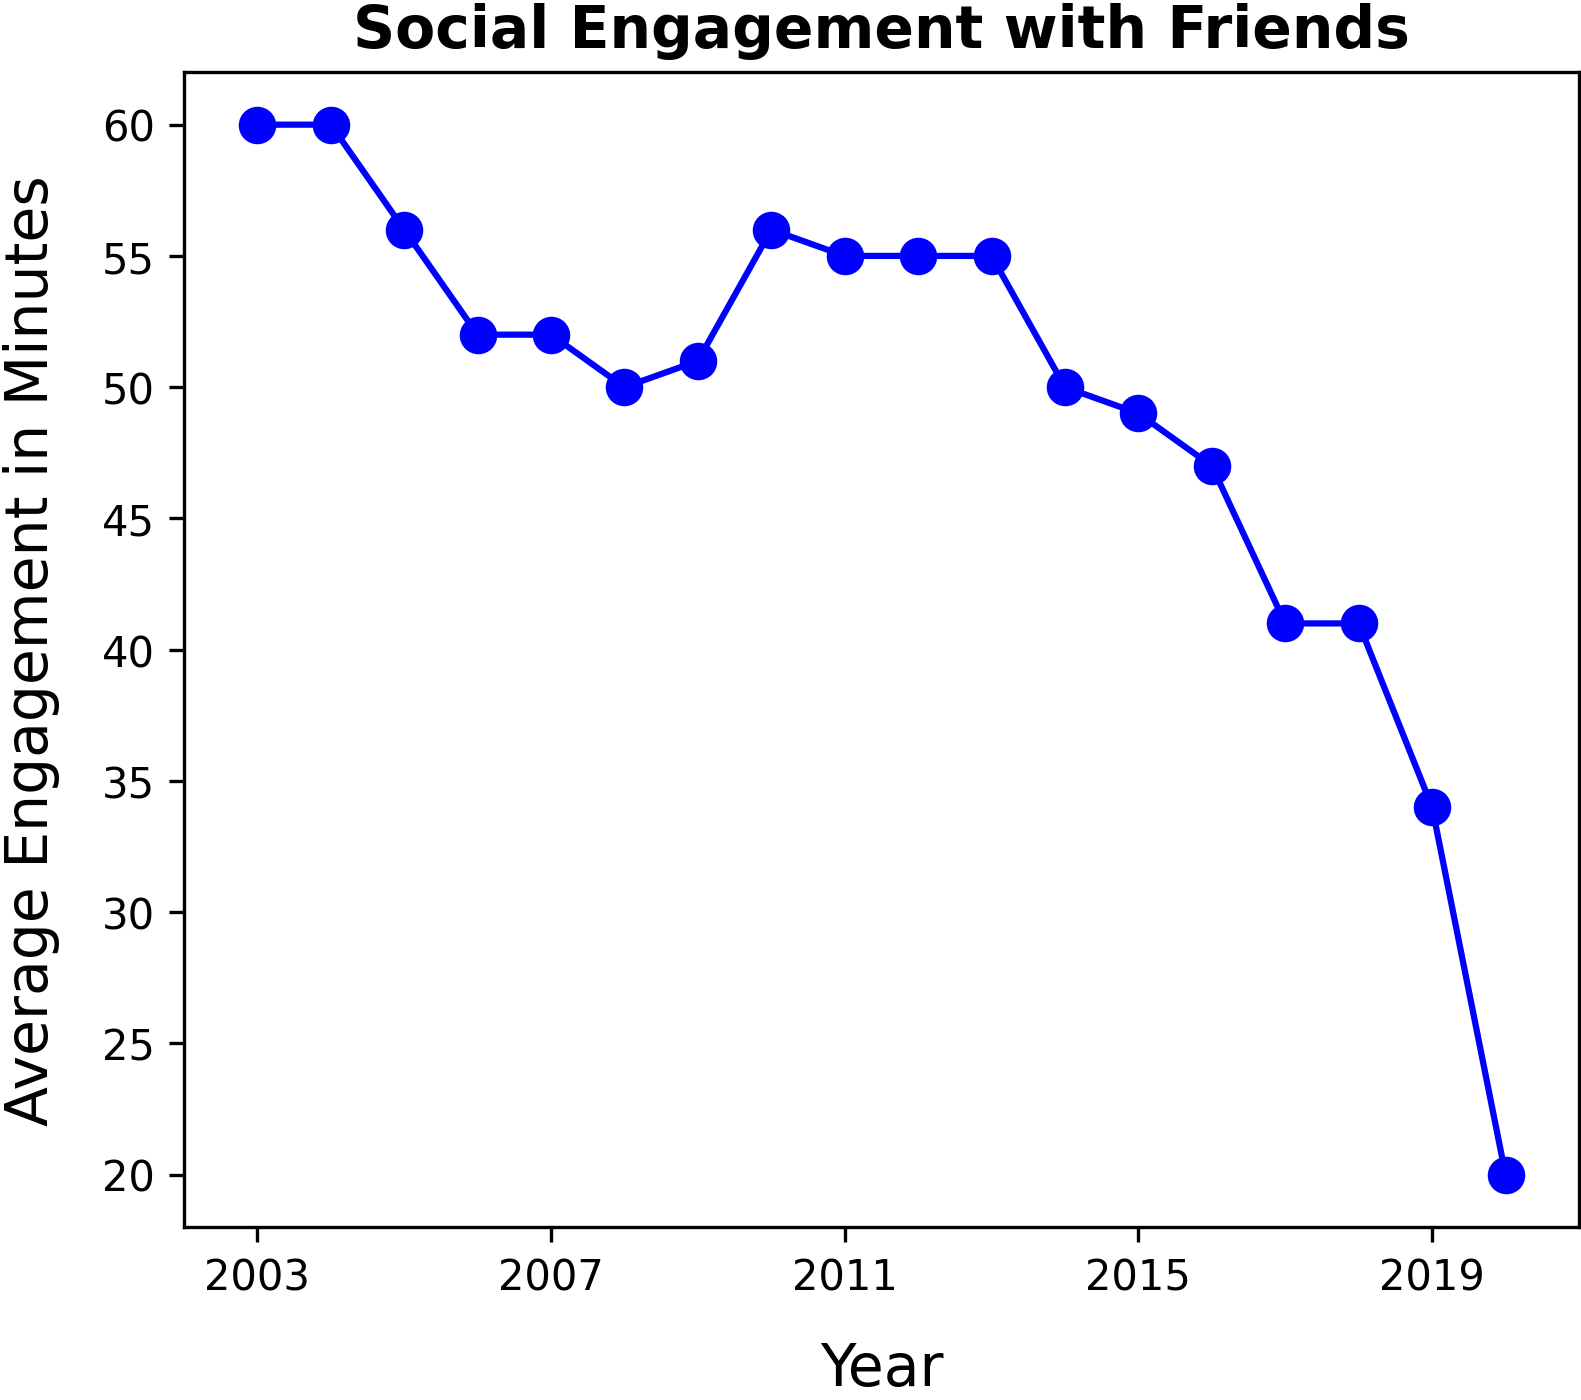
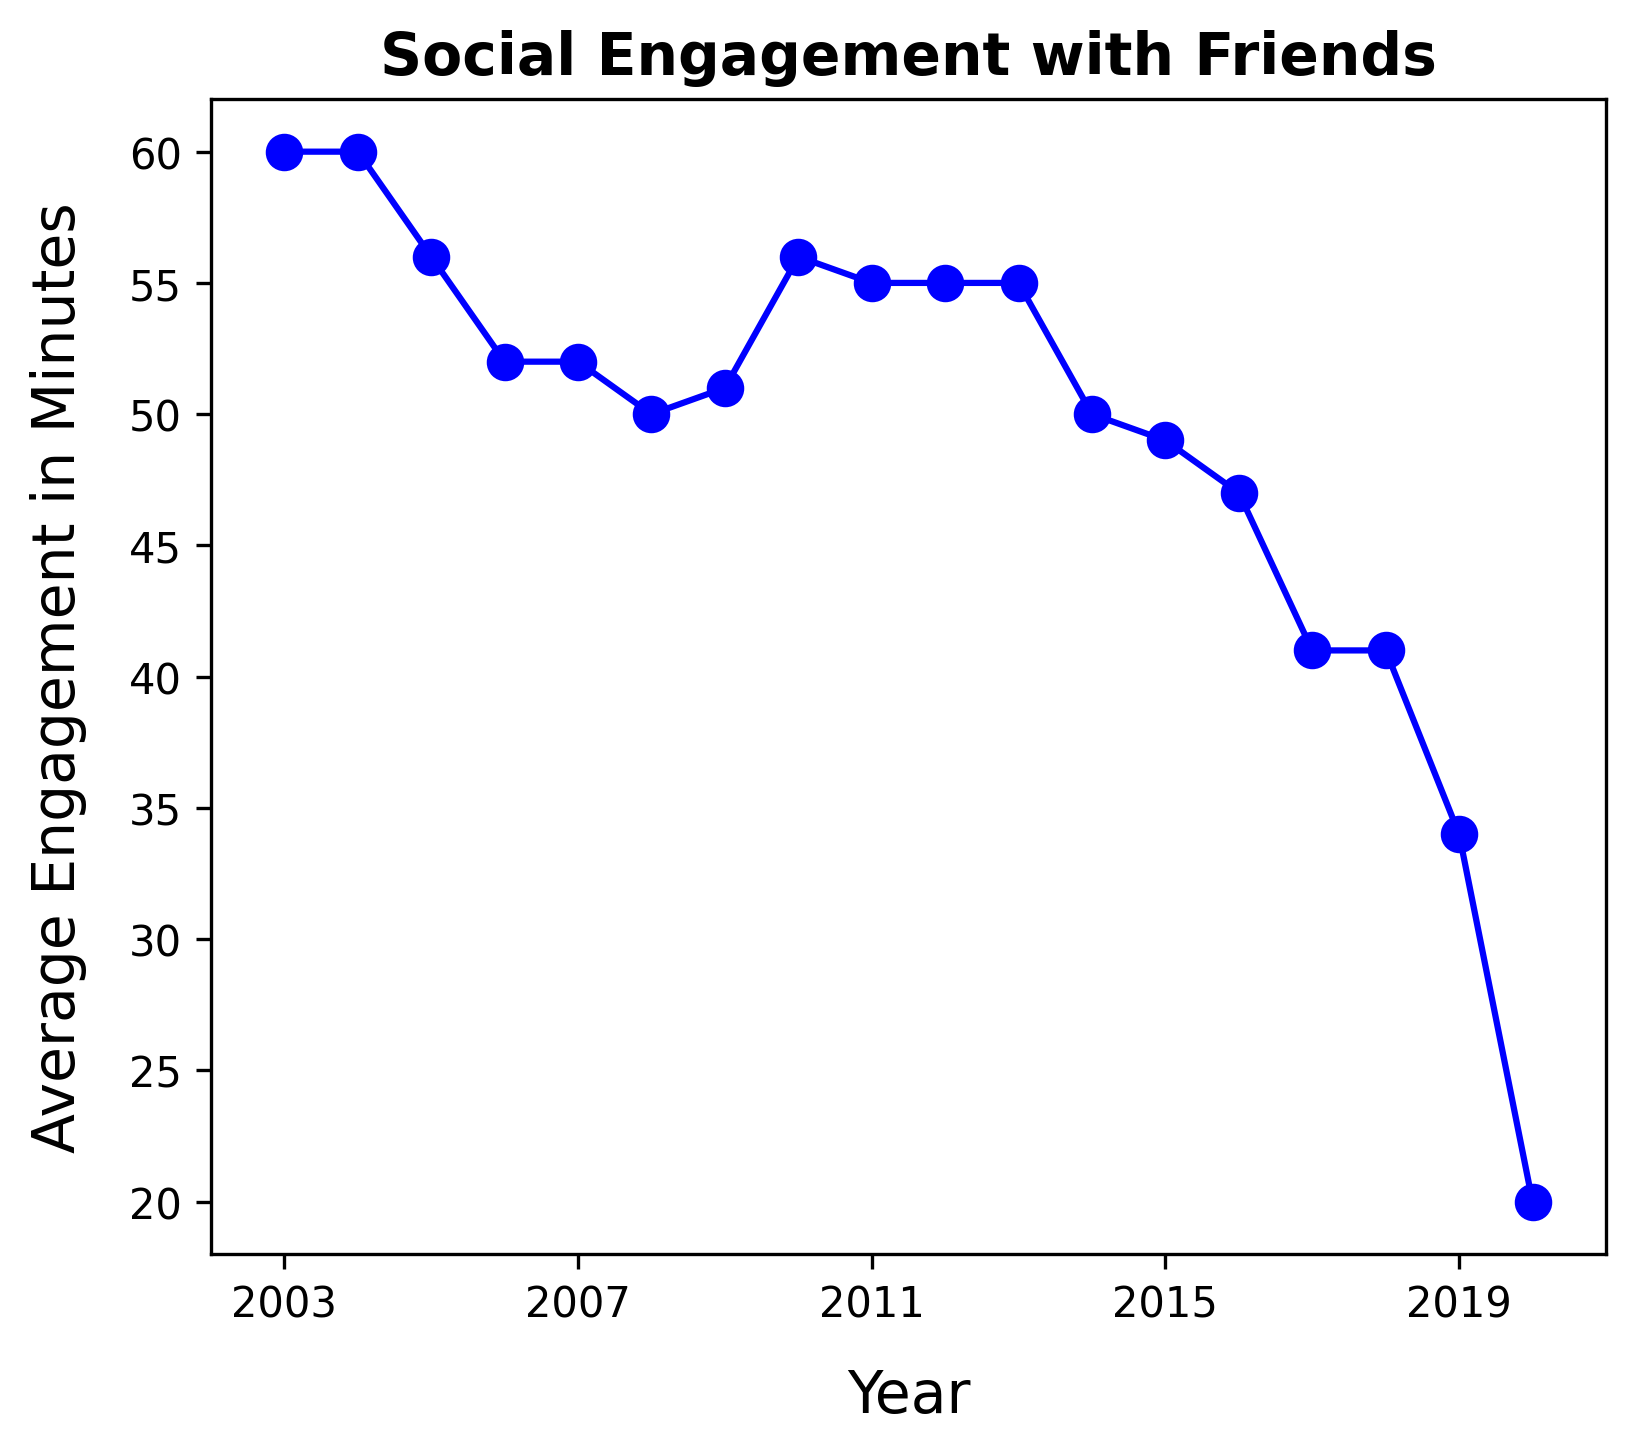
update

diff --git a/svm_log_barrier_method.html b/svm_log_barrier_method.html
@@ -1,9 +1,27 @@
 
 <html>
 	<head>
-		<meta name="Keywords" content="Anurag Gupta, Electrical Engineering (EE), Systems and Control Engineering (SC/SysCon), Indian Institute of Technology, Bombay (IITB)"/>
-		<meta name="Description" content="Anurag Gupta, an Electrical Engineering graduate from Indian Institute of Technology, Bombay. is currently pursuing his Masters degree from the department of Systems and Control. His research interests include game theory, stochastic control, and security of cyber-physical systems."/>
+		<!-- META TAGS -->
+		<meta charset="utf-8">
+		<meta name="keywords" content="Support vector machine,  SVM, Log barrier method, Approximate methods, Optimal hyperplane, Artificial intelligence, Machine learning, Optimization, Iterative methods, Data classification"/>
+		<meta name="description" content="SVM is a popular classification algorithm utilized in applications of artificial intelligence to separate dissimilar data. Given a two class training dataset, SVM generates an optimal separating hyperplane (by maximizing the margin) to sequester two class of data using a constrained quadratic convex optimization formulation. In this work, we implement SVM for data classification using exact and approximate methods."/>
+		<meta name="author" content="Anurag Gupta">
 		<meta name="viewport" content="width=device-width, initial-scale=1.0">
+
+		<!-- OPEN GRAPH META TAGS -->
+		<meta property="og:title" content="Anurag Gupta | Cornell University | Indian Institute of Technology Bombay">
+		<meta property="og:type" content="article">
+		<meta property="og:url" content="http://www.anuragg.in">
+		<meta property="og:description" content="SVM is a popular classification algorithm utilized in applications of artificial intelligence to separate dissimilar data. Given a two class training dataset, SVM generates an optimal separating hyperplane (by maximizing the margin) to sequester two class of data using a constrained quadratic convex optimization formulation. In this work, we implement SVM for data classification using exact and approximate methods.">
+		<meta property="og:image" content="images/anurag.png">
+		<meta property="og:site_name" content="Anurag Gupta">
+
+		<!-- TWITTER META TAGS -->
+		<meta name="twitter:card" content="summary_large_image">
+		<meta name="twitter:image" content="images/anurag.png">
+    <meta name="twitter:title" content="Anurag Gupta | Cornell University | Indian Institute of Technology Bombay">
+    <meta name="twitter:description" content="SVM is a popular classification algorithm utilized in applications of artificial intelligence to separate dissimilar data. Given a two class training dataset, SVM generates an optimal separating hyperplane (by maximizing the margin) to sequester two class of data using a constrained quadratic convex optimization formulation. In this work, we implement SVM for data classification using exact and approximate methods.">
+    <!-- <meta name="twitter:site" content="@anuraggin"> -->
 		<title>
 			 Anurag Gupta | Cornell University | Indian Institute of Technology, Bombay
 		</title>

diff --git a/shared_economy_for_battery_storage.html b/shared_economy_for_battery_storage.html
@@ -1,8 +1,27 @@
 <html>
 	<head>
-		<meta name="Keywords" content="Anurag Gupta, Electrical Engineering (EE), Systems and Control Engineering (SC/SysCon), Indian Institute of Technology, Bombay (IITB)"/>
-		<meta name="Description" content="Anurag Gupta, an Electrical Engineering graduate from Indian Institute of Technology, Bombay. is currently pursuing his Masters degree from the department of Systems and Control. His research interests include game theory, stochastic control, and security of cyber-physical systems."/>
+		<!-- META TAGS -->
+		<meta charset="utf-8">
+		<meta name="keywords" content="Shared economy, battery storage, Economics, Game theory, Cooperative games, Equilibrium, Anurag Gupta, Master of Science, MS, Master of Technology, M.Tech, Bachelor of Technology, B.Tech, Electrical Engineering, EE, Systems and Control Engineering, SC, SysCon, Electrical and Computer Engineering, Indian Institute of Technology Bombay, Cornell University"/>
+		<meta name="description" content=""/>
+		<meta name="author" content="Anurag Gupta">
 		<meta name="viewport" content="width=device-width, initial-scale=1.0">
+
+		<!-- OPEN GRAPH META TAGS -->
+		<meta property="og:title" content="Anurag Gupta | Cornell University | Indian Institute of Technology Bombay">
+		<meta property="og:type" content="article">
+		<meta property="og:url" content="http://www.anuragg.in">
+		<meta property="og:description" content="A literature survey of several game theoretic models to study the benefit of coalition for electricity consumers under different pricing models.">
+		<meta property="og:image" content="images/anurag.png">
+		<meta property="og:site_name" content="Anurag Gupta">
+
+		<!-- TWITTER META TAGS -->
+		<meta name="twitter:card" content="summary_large_image">
+		<meta name="twitter:image" content="images/anurag.png">
+    <meta name="twitter:title" content="Anurag Gupta | Cornell University | Indian Institute of Technology Bombay">
+    <meta name="twitter:description" content="A literature survey of several game theoretic models to study the benefit of coalition for electricity consumers under different pricing models.">
+    <!-- <meta name="twitter:site" content="@anuraggin"> -->
+
 		<title>
 			 Anurag Gupta | Cornell University | Indian Institute of Technology, Bombay
 		</title>

diff --git a/stereovision.html b/stereovision.html
@@ -1,8 +1,26 @@
 <html>
 	<head>
-		<meta name="Keywords" content="Anurag Gupta, Electrical Engineering (EE), Systems and Control Engineering (SC/SysCon), Indian Institute of Technology, Bombay (IITB)"/>
-		<meta name="Description" content="Anurag Gupta, an Electrical Engineering graduate from Indian Institute of Technology, Bombay. is currently pursuing his Masters degree from the department of Systems and Control. His research interests include game theory, stochastic control, and security of cyber-physical systems."/>
+		<!-- META TAGS -->
+		<meta charset="utf-8">
+		<meta name="keywords" content="Stereovision, Computer vision, Depth map, Ground truth"/>
+		<meta name="description" content="We discuss classical techniques to extract depth information from more than two image sets, thereby, improving accuracy of depth map."/>
+		<meta name="author" content="Anurag Gupta">
 		<meta name="viewport" content="width=device-width, initial-scale=1.0">
+
+		<!-- OPEN GRAPH META TAGS -->
+		<meta property="og:title" content="Anurag Gupta | Cornell University | Indian Institute of Technology Bombay">
+		<meta property="og:type" content="article">
+		<meta property="og:url" content="http://www.anuragg.in">
+		<meta property="og:description" content="We discuss classical techniques to extract depth information from more than two image sets, thereby, improving accuracy of depth map.">
+		<meta property="og:image" content="images/anurag.png">
+		<meta property="og:site_name" content="Anurag Gupta">
+
+		<!-- TWITTER META TAGS -->
+		<meta name="twitter:card" content="summary_large_image">
+		<meta name="twitter:image" content="images/anurag.png">
+    <meta name="twitter:title" content="Anurag Gupta | Cornell University | Indian Institute of Technology Bombay">
+    <meta name="twitter:description" content="We discuss classical techniques to extract depth information from more than two image sets, thereby, improving accuracy of depth map.">
+    <!-- <meta name="twitter:site" content="@anuraggin"> -->
 		<title>
 			 Anurag Gupta | Cornell University | Indian Institute of Technology, Bombay
 		</title>

diff --git a/testing_of_digital_circuits.html b/testing_of_digital_circuits.html
@@ -1,8 +1,26 @@
 <html>
 	<head>
-		<meta name="Keywords" content="Anurag Gupta, Electrical Engineering (EE), Systems and Control Engineering (SC/SysCon), Indian Institute of Technology, Bombay (IITB)"/>
-		<meta name="Description" content="Anurag Gupta, an Electrical Engineering graduate from Indian Institute of Technology, Bombay. is currently pursuing his Masters degree from the department of Systems and Control. His research interests include game theory, stochastic control, and security of cyber-physical systems."/>
+		<!-- META TAGS -->
+		<meta charset="utf-8">
+		<meta name="keywords" content="Testing, Digital circuits, Automation, Device under test, Beaglebone black, Python, Graphical user interface, GUI"/>
+		<meta name="description" content="Designing a python based software on Beaglebone black to debug and validate circuit design on breadboard."/>
+		<meta name="author" content="Anurag Gupta">
 		<meta name="viewport" content="width=device-width, initial-scale=1.0">
+
+		<!-- OPEN GRAPH META TAGS -->
+		<meta property="og:title" content="Anurag Gupta | Cornell University | Indian Institute of Technology Bombay">
+		<meta property="og:type" content="article">
+		<meta property="og:url" content="http://www.anuragg.in">
+		<meta property="og:description" content="Designing a python based software on Beaglebone black to debug and validate circuit design on breadboard.">
+		<meta property="og:image" content="images/anurag.png">
+		<meta property="og:site_name" content="Anurag Gupta">
+
+		<!-- TWITTER META TAGS -->
+		<meta name="twitter:card" content="summary_large_image">
+		<meta name="twitter:image" content="images/anurag.png">
+    <meta name="twitter:title" content="Anurag Gupta | Cornell University | Indian Institute of Technology Bombay">
+    <meta name="twitter:description" content="Designing a python based software on Beaglebone black to debug and validate circuit design on breadboard.">
+    <!-- <meta name="twitter:site" content="@anuraggin"> -->
 		<title>
 			 Anurag Gupta | Cornell University | Indian Institute of Technology, Bombay
 		</title>

diff --git a/shape_formation_using_kilobots.html b/shape_formation_using_kilobots.html
@@ -9,7 +9,7 @@
 
 		<!-- OPEN GRAPH META TAGS -->
 		<meta property="og:title" content="Shape formation using Kilobots | Anurag Gupta | Cornell University | Indian Institute of Technology Bombay">
-		<meta property="og:type" content="Engineering Project">
+		<meta property="og:type" content="article">
 		<meta property="og:url" content="http://www.anuragg.in/shape_formation_using_kilobots.html">
 		<meta property="og:description" content="We design an algorithm for Kilobots to collaboratively form a given shape. A finite state machine based framework was utilized to breakdown the problem into two essential components. The first component comprised of an orbiting algorithm to allow Kilobots to reach their desired location, and the second, a localization mechanism to identify its relative position.">
 		<meta property="og:image" content="images/anurag.png">

diff --git a/header.js b/header.js
@@ -45,7 +45,7 @@ y=y+'</ul>\
         </ul>\
       </li>\
       <li class = "dropdown-button-1">\
-      <a href = "http://www.in2eco.com">Travel</a>\
+      <a href = "http://www.in2eco.com/travel.html">Travel</a>\
       </li>\
     </ul>\
   </li>\

diff --git a/social_media_posts/friends engagement/plot_data.py b/social_media_posts/friends engagement/plot_data.py
@@ -22,7 +22,7 @@ plt.ylim(18, 62)       # Set the y-axis limits
 # Ensure x markers are less crowded
 plt.xticks(range(2003, 2021, 4))  # Set x-ticks every 2 years
 
-plt.savefig('social_engagement_plot.png', dpi=300, bbox_inches='tight', pad_inches=0.01)  # Save the plot as a PNG file
+plt.savefig('social_engagement_plot.png', dpi=300, bbox_inches='tight', pad_inches=0.1)  # Save the plot as a PNG file
 
 # Display the plot
 plt.show()
